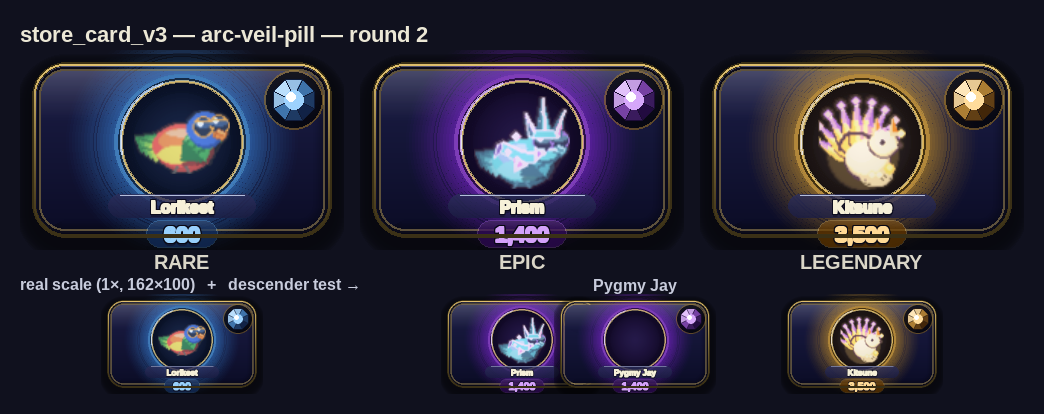
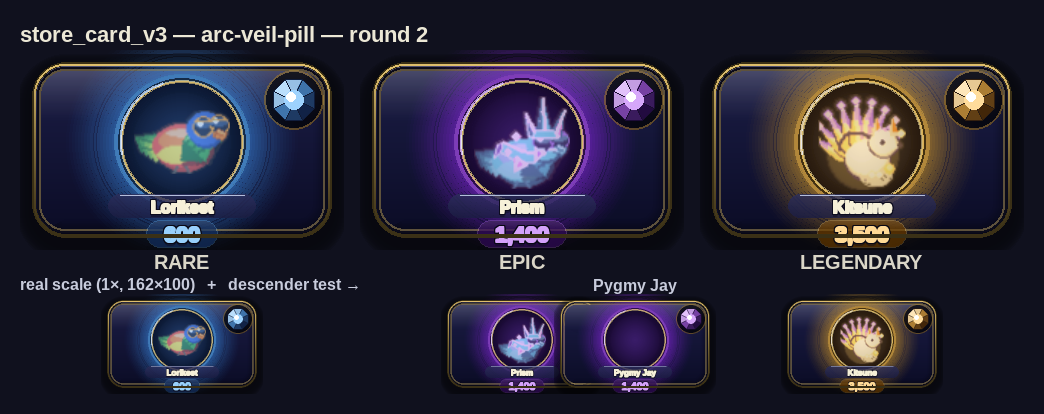
store_card_v3 r2 updates: arc-veil-pill, bridge-nameplate, product-line-bar

diff --git a/tools/_store_card_v3_product_line_bar_r2.py b/tools/_store_card_v3_product_line_bar_r2.py
@@ -1,0 +1,338 @@
+"""product-line-bar — store_card_v3 concept, round 2 headless render.
+
+Round-2 revision of the retail-SKU read. The medallion hero now rides with more
+AIR (R=32, disc centre at rect.y+34 so the disc top clears the inner-tray frame
+and the disc bottom only just overhangs the shelf bar), and the full-width tier
+FOOTER BAR is INSET to the gold inner tray (tray.x / tray.w, seated flush to the
+tray bottom with the tray's own bottom-corner radius) so it lives inside the
+frame like the disc does.
+
+The bar's tier ramp is INVERTED versus r1: deep at the TOP, glow through the
+mid, and gem only as a 1-2px bright lip at the very base. That seats the NAME +
+PRICE glyphs on the darkest, most consistent slice of the bar. Text ink is
+TIER-ADAPTIVE: the actual bar background under the glyphs is sampled and, when
+its luminance clears ~90 (warm bars like LEGENDARY), the glyphs flip to dark ink
+so cream-on-gold never smears; cool/dark bars keep cream. The gutter halo is
+pulled back (glow_r=R+16, peak=65) now that the bar carries the rarity read, and
+the disc-centre tint is strengthened (base 30, exp 1.3) to tame near-white skins.
+
+Copied scaffold from _store_card_v3_product_line_bar_r1 (_disc_tint,
+_gutter_aura, VARIANTS list, review-sheet stitch); only the numbers the
+art-director called out changed.
+
+Headless (SDL dummy) -> a 3-up RARE/EPIC/LEGENDARY review sheet at SS (324x200,
+no downscale) + a real-scale 1x strip (162x100). Not wired into the live store;
+writes docs/store_card_v3/product-line-bar/round_2.png.
+"""
+import os
+
+os.environ["SDL_VIDEODRIVER"] = "dummy"
+os.environ["SDL_AUDIODRIVER"] = "dummy"
+
+import sys
+
+sys.path.insert(0, "/home/user/skybit")
+
+import pygame
+
+pygame.init()
+pygame.display.set_mode((1, 1))
+
+from game.draw import lerp_color
+from game.hud import _font
+from game.store_cards import (
+    vgrad, vgrad_stops, drop_shadow, bevel_rim, top_sheen, contact_shadow,
+    cabochon, cabochon_glass, blit_thumb, facet_gem, plain_text,
+    font, m, SS, CABO_LO, CABO_HI, CARD_T, CARD_B,
+    CARD_RING_DEEP, CARD_RING_BRIGHT, GEM_R,
+)
+
+# LOCKED card constants (from store_cards).
+CARD_W, CARD_H = 162, 100
+CARD_RAD = 17
+_INSET = 6
+
+# Hero medallion radius: dropped to R=32 to give the hero more breathing room in
+# the gutter and above/below, so the disc no longer crowds the tray frame or the
+# shelf bar.
+R = 32
+# Disc centre measured from the body top (rect.y + 34): the disc top now clears
+# the inner-tray frame by a couple logical px and the disc bottom only just kisses
+# the top lip of the shelf bar instead of burying into it.
+CY = 34
+
+# Cream vs dark ink for the shelf label. Cream is the default over cool/dark
+# bars; dark ink lands on warm/bright bars (LEGENDARY) where cream would smear.
+INK_CREAM = (246, 240, 216)
+INK_DARK = (40, 26, 6)
+INK_LUM_THRESHOLD = 90        # background luminance above which cream fails
+
+
+def _luma(c):
+    """Rec601 perceived luminance — the store's existing convention for
+    background-vs-ink decisions."""
+    return 0.299 * c[0] + 0.587 * c[1] + 0.114 * c[2]
+
+
+def _disc_tint(surf, cx, cy, r, color, deep, peak=52, base=30):
+    """A tier colour veil INSIDE the disc, clipped to the glass. It warms the
+    cool CABO_LO->CABO_HI dome away from the indigo body, and — carrying a
+    STRONGER centre alpha (base 30) with a gentler falloff (exp 1.3) — pulls any
+    near-white skin highlight harder toward the tier hue so the hero never reads
+    pure (255,255,255). Rim-biased (deeper toward the edge) reads as a coloured
+    dome, not a flat cast."""
+    pad = 2
+    tint = pygame.Surface((r * 2 + pad * 2, r * 2 + pad * 2), pygame.SRCALPHA)
+    c = r + pad
+    for i in range(r, 0, -1):
+        f = i / r                                   # 1 at rim, 0 at centre
+        col = lerp_color(color, deep, f ** 1.3)
+        a = int(base + (peak - base) * f ** 1.3)    # base at centre, peak at rim
+        pygame.draw.circle(tint, (*col, a), (c, c), i, width=2)
+    tmask = pygame.Surface(tint.get_size(), pygame.SRCALPHA)
+    pygame.draw.circle(tmask, (255, 255, 255, 255), (c, c), r - m(1))
+    tint.blit(tmask, (0, 0), special_flags=pygame.BLEND_RGBA_MIN)
+    surf.blit(tint, (cx - c, cy - c))
+
+
+def _gutter_aura(surf, cx, cy, disc_r, glow_r, color, peak=65, layers=18):
+    """A feathered tier halo that lives ONLY beyond the disc rim (radius >
+    disc_r), so it floods the side gutters with tier colour without touching —
+    or blowing out — the hero inside the glass. Normal alpha-carry blits (NOT
+    additive) so the colour survives compositing and reads as a tint, not a hot
+    white bloom. Brightest at the rim, feathering out into the gutter. Pulled
+    back (tighter radius, softer peak) now that the shelf bar carries the read."""
+    for i in range(1, layers + 1):
+        r = int(disc_r + (glow_r - disc_r) * i / layers)
+        if r <= disc_r:
+            continue
+        a = int(peak * (1 - (i - 1) / layers) ** 1.6)
+        if a <= 0:
+            continue
+        w = max(2, int((glow_r - disc_r) / layers) + m(1.5))
+        g = pygame.Surface((r * 2 + 2, r * 2 + 2), pygame.SRCALPHA)
+        pygame.draw.circle(g, (*color, a), (r + 1, r + 1), r, width=w)
+        surf.blit(g, (cx - r - 1, cy - r - 1))
+
+
+def _top_edge_shadow(surf, bar, depth, alpha):
+    """A soft AO band hugging the bar's TOP edge only, so the bar reads as
+    resting UNDER the disc that overhangs it. contact_shadow hugs bottom+right,
+    which is the wrong edge here — this feathers a dark band downward from the
+    bar's top lip instead."""
+    band = pygame.Surface((bar.w, depth), pygame.SRCALPHA)
+    for y in range(depth):
+        a = int(alpha * (1 - y / depth) ** 1.4)
+        pygame.draw.line(band, (0, 0, 0, a), (0, y), (bar.w - 1, y))
+    surf.blit(band, (bar.x, bar.y))
+
+
+def _fit_font(txt, max_w, hi=10.5, lo=8.0):
+    """Auto-shrink the label font from hi->lo (0.5 steps) until it fits max_w, so
+    long skin names never spill past the bar's left cell."""
+    size = hi
+    while size > lo:
+        f = font(size)
+        if f.size(txt)[0] <= max_w:
+            return f
+        size -= 0.5
+    return font(lo)
+
+
+def render_card(sid, pal, price, name):
+    """Draw ONE product-line-bar card onto a fresh SS panel (324x200) and return
+    it plus a probe dict for pixel sampling. Drawn directly at SS (no
+    smoothscale) so the review sheet inspects the geometry at author
+    resolution."""
+    big = pygame.Surface((CARD_W * SS, CARD_H * SS), pygame.SRCALPHA)
+    rect = pygame.Rect(m(_INSET), m(_INSET),
+                       CARD_W * SS - 2 * m(_INSET), CARD_H * SS - 2 * m(_INSET))
+    rad = m(CARD_RAD)
+    cx, cy = rect.centerx, rect.y + m(CY)
+
+    # 1. depth: soft multi-layer drop shadow (top-left light -> offset down).
+    drop_shadow(big, rect, rad, blur=m(8), alpha=160, dy=m(4))
+    # 2. body gradient (indigo CARD_T -> CARD_B).
+    big.blit(vgrad(rect.w, rect.h, rad, CARD_T, CARD_B, 252, gamma=1.15),
+             rect.topleft)
+    # 3. glossy top sheen.
+    top_sheen(big, rect, rad, m(30), peak=62)
+    # 4. bottom-right contact AO.
+    contact_shadow(big, rect, rad, m(9), alpha=120)
+    # 5. inner tray dark border + faint gold lane framing the disc.
+    tray = rect.inflate(-m(7), -m(7))
+    trad = rad - m(4)
+    pygame.draw.rect(big, (10, 10, 24, 200), tray.inflate(m(2), m(2)),
+                     width=max(1, m(1)), border_radius=trad + m(1))
+    pygame.draw.rect(big, (*CARD_RING_BRIGHT, 90), tray, width=max(1, m(1)),
+                     border_radius=trad)
+
+    # 11. FOOTER BAR — inset to the gold inner tray (tray.x / tray.w), seated
+    #     flush to the tray bottom with the tray's own bottom-corner radius, so
+    #     it lives inside the frame like the disc. Drawn BEFORE the disc so the
+    #     disc's slight overhang + top-edge AO read as the disc resting on it.
+    bar = pygame.Rect(tray.x, 0, tray.w, m(20))
+    bar.bottom = tray.bottom
+    #     INVERTED 3-stop tier ramp: deep at the TOP (the flattest, darkest,
+    #     most consistent ground for the glyphs), glow through the mid, gem only
+    #     as a bright lip at the very base. gamma>1 biases the whole bar toward
+    #     the deep end, flattening value behind the text further.
+    fill = vgrad_stops(bar.w, bar.h, 0,
+                       [(0.0, pal["deep"]), (0.80, pal["glow"]), (1.0, pal["gem"])],
+                       255, gamma=1.5)
+    #     round ONLY the bottom corners (to the tray radius); the top stays flat
+    #     under the overhanging disc.
+    cmask = pygame.Surface((bar.w, bar.h), pygame.SRCALPHA)
+    pygame.draw.rect(cmask, (255, 255, 255, 255), (0, 0, bar.w, bar.h),
+                     border_bottom_left_radius=trad, border_bottom_right_radius=trad)
+    fill.blit(cmask, (0, 0), special_flags=pygame.BLEND_RGBA_MIN)
+    big.blit(fill, bar.topleft)
+
+    # 6. domed glass well -> hero skin (no under-disc additive glow).
+    cabochon(big, cx, cy, m(R), CABO_LO, CABO_HI, ring=pal["gem"], ring_a=60)
+    blit_thumb(big, sid, cx, cy, m(R) * 1.5)
+
+    # 7. tier tint INSIDE the disc — warms the glass, tames near-white skins.
+    _disc_tint(big, cx, cy, m(R), pal["glow"], pal["deep"])
+
+    # 8. glass dome overlay (crescent sheen + gold bezel) on top of the tint.
+    cabochon_glass(big, cx, cy, m(R), tint=pal["gem"])
+
+    # 9. ONE tier-coloured bezel ring at R+2.
+    pygame.draw.circle(big, (*pal["gem"], 100), (cx, cy), m(R) + m(2), width=m(2))
+
+    # 10. gutter halo — pulled back (R+16, softer peak) since the shelf bar now
+    #     carries the rarity read and the halo shouldn't compete with it.
+    _gutter_aura(big, cx, cy, m(R), m(R + 16), pal["glow"], peak=65, layers=18)
+
+    #     top-edge AO so the bar reads as resting below the overhanging disc.
+    _top_edge_shadow(big, bar, depth=m(4), alpha=100)
+    #     1px bevel to define the bar edges against body + gutter halo.
+    bevel_rim(big, bar, 0, CARD_RING_DEEP, CARD_RING_BRIGHT, w=max(1, m(1)))
+
+    # 12/13. TIER-ADAPTIVE INK — sample the ACTUAL bar background under the
+    #     glyphs (bar centre) and flip to dark ink when it clears the luminance
+    #     threshold, so warm bars read dark type and cool bars keep cream. Gating
+    #     on the rendered pixel (not a fixed per-tier choice) keeps it
+    #     future-proof for any new palette.
+    bg = big.get_at((bar.centerx, bar.centery))[:3]
+    ink = INK_DARK if _luma(bg) > INK_LUM_THRESHOLD else INK_CREAM
+    pad = m(8)
+    price_txt = f"$ {price:,}"
+    pfont = font(10.5)
+    price_w = pfont.size(price_txt)[0]
+    name_max = bar.w - price_w - pad * 3
+    nfont = _fit_font(name, name_max)
+    nsurf = nfont.render(name, True, ink)
+    # NAME (left cell) — left-aligned, m(8) pad, vertically centred.
+    plain_text(big, name, nfont,
+               (bar.x + pad + nsurf.get_width() // 2, bar.centery),
+               ink, shadow_a=170, keyline=(20, 14, 4), kw=m(0.8))
+    # PRICE (right cell) — right-aligned, m(8) pad.
+    prect = plain_text(big, price_txt, pfont,
+                       (bar.right - pad - price_w // 2, bar.centery),
+                       ink, shadow_a=170, keyline=(20, 14, 4), kw=m(0.8))
+
+    # 14. crest gem — faceted tier badge, top-right corner.
+    facet_gem(big, rect.right - m(19), rect.y + m(19), m(GEM_R + 3),
+              pal["gem"], pal["deep"])
+
+    # 15. bevel rim + dark keyline LAST so the card frame stays crisp.
+    pygame.draw.rect(big, (4, 5, 16), rect, width=max(1, m(2)), border_radius=rad)
+    bevel_rim(big, rect, rad, CARD_RING_DEEP, (*CARD_RING_BRIGHT, 235),
+              w=max(1, m(2.0)))
+    probe = {
+        "cx": cx, "cy": cy, "bar": bar, "prect": prect,
+        "bg": bg, "ink": ink, "lum": _luma(bg),
+    }
+    return big, probe
+
+
+# ── review sheet ──────────────────────────────────────────────────────────────
+VARIANTS = [
+    ("RARE", "skin_lorikeet",
+     {"gem": (108, 188, 252), "glow": (60, 140, 230), "deep": (18, 44, 90)},
+     600, "Lorikeet"),
+    ("EPIC", "skin_prism",
+     {"gem": (194, 122, 248), "glow": (140, 40, 230), "deep": (44, 10, 80)},
+     1400, "Prism"),
+    ("LEGENDARY", "skin_kitsune",
+     {"gem": (255, 202, 104), "glow": (220, 160, 40), "deep": (90, 50, 0)},
+     3500, "Kitsune"),
+]
+
+PANEL_W, PANEL_H = CARD_W * SS, CARD_H * SS   # 324 x 200 (SS panels, no downscale)
+MARGIN = 20
+GUTTER = 16
+HEADER_H = 30
+FOOTER_H = 24
+STRIP_LABEL_H = 20
+STRIP_H = CARD_H                              # real-scale 1x cards (162x100)
+
+sheet_w = MARGIN * 2 + PANEL_W * 3 + GUTTER * 2
+sheet_h = (MARGIN + HEADER_H + PANEL_H + FOOTER_H + STRIP_LABEL_H + STRIP_H
+           + MARGIN)
+sheet = pygame.Surface((sheet_w, sheet_h))
+sheet.fill((16, 17, 30))
+
+hfont = _font(22, True)
+ffont = _font(20, True)
+sfont = _font(16, True)
+htxt = hfont.render("store_card_v3 — product-line-bar — round 2", True,
+                    (236, 232, 214))
+sheet.blit(htxt, (MARGIN, MARGIN + (HEADER_H - htxt.get_height()) // 2))
+
+panel_y = MARGIN + HEADER_H
+panels = []
+probes = []
+for i, (tier, sid, pal, price, name) in enumerate(VARIANTS):
+    px = MARGIN + i * (PANEL_W + GUTTER)
+    panel, probe = render_card(sid, pal, price, name)
+    panels.append(panel)
+    probes.append(probe)
+    sheet.blit(panel, (px, panel_y))
+    ftxt = ffont.render(tier, True, (218, 214, 200))
+    sheet.blit(ftxt, (px + (PANEL_W - ftxt.get_width()) // 2,
+                      panel_y + PANEL_H + (FOOTER_H - ftxt.get_height()) // 2))
+
+# 1x real-scale strip: smoothscale each SS panel down to the live 162x100 card
+# so the sheet also shows how the card reads at true size.
+strip_label_y = panel_y + PANEL_H + FOOTER_H
+ltxt = sfont.render("real scale (1×, 162×100):", True, (200, 204, 220))
+sheet.blit(ltxt, (MARGIN, strip_label_y + (STRIP_LABEL_H - ltxt.get_height()) // 2))
+strip_y = strip_label_y + STRIP_LABEL_H
+for i, panel in enumerate(panels):
+    px = MARGIN + i * (PANEL_W + GUTTER)
+    small = pygame.transform.smoothscale(panel, (CARD_W, CARD_H))
+    sheet.blit(small, (px + (PANEL_W - CARD_W) // 2, strip_y))
+
+out = "/home/user/skybit/docs/store_card_v3/product-line-bar/round_2.png"
+os.makedirs(os.path.dirname(out), exist_ok=True)
+pygame.image.save(sheet, out)
+print("saved", out, sheet.get_size())
+
+
+def _find_ink_pixel(panel, prect, ink):
+    """Scan the price glyph rect for the pixel nearest the chosen ink — a real
+    rendered text pixel to verify the adaptive-ink decision landed."""
+    best, bestd = None, 1e9
+    for y in range(prect.top, prect.bottom):
+        for x in range(prect.left, prect.right):
+            c = panel.get_at((x, y))[:3]
+            d = sum((a - b) ** 2 for a, b in zip(c, ink))
+            if d < bestd:
+                bestd, best = d, c
+    return best
+
+
+# Per-tier pixel samples the art-director asked for.
+for (tier, sid, pal, price, name), panel, pr in zip(VARIANTS, panels, probes):
+    cx, cy, bar = pr["cx"], pr["cy"], pr["bar"]
+    gutter_px = panel.get_at((cx + m(R) + m(15), cy))[:3]     # rim + 15px logical
+    disc_px = panel.get_at((cx, cy))[:3]
+    bar_hue = panel.get_at((bar.centerx, bar.centery))[:3]
+    text_px = _find_ink_pixel(panel, pr["prect"], pr["ink"])
+    ink_name = "dark" if pr["ink"] == INK_DARK else "cream"
+    print(f"{tier:9s} gutter+15 {gutter_px}  disc-centre {disc_px}  "
+          f"bar-hue {bar_hue}  bg-lum {pr['lum']:5.1f}->{ink_name:5s}  "
+          f"text-px {text_px}")

diff --git a/tools/_store_card_v3_arc_veil_pill_r2.py b/tools/_store_card_v3_arc_veil_pill_r2.py
@@ -57,14 +57,19 @@ R = 32
 CY = 40
 
 
-def _disc_tint(surf, cx, cy, r, color, deep, peak=52, base=34):
+def _disc_tint(surf, cx, cy, r, color, deep, peak=92, base=78):
     """A tier colour veil INSIDE the disc, clipped to the glass. It warms the
     cool CABO_LO→CABO_HI dome away from the indigo body, and — carrying a
-    meaningful centre alpha (base raised from r1's 16 so the LEGENDARY hero stops
-    blowing to near-white) — pulls any bright skin highlight toward the tier hue.
-    Rim-biased (deeper toward the edge) reads as a coloured dome, not a flat cast;
-    the gentler exponent (1.3, down from 1.6) lets that hue carry further inward
-    instead of collapsing to nothing at the centre."""
+    meaningful centre alpha — pulls the LEGENDARY hero's near-white specular
+    toward the tier hue so it stops blowing out. The gentler exponent (1.3, down
+    from r1's 1.6) lets the hue carry further inward instead of collapsing to
+    nothing at the centre; the veil stays rim-biased because peak > base.
+
+    base sits well above the ~34 first estimate because cabochon_glass paints its
+    crescent sheen over the SAME centre AFTER this tint, re-lighting it — so the
+    centre pixel (whose alpha equals base) needs ~78 before LEGENDARY's specular
+    drops under the 245/channel ceiling, while RARE/EPIC (mid-tone, not near
+    white) only shed a few points and stay legible."""
     pad = 2
     tint = pygame.Surface((r * 2 + pad * 2, r * 2 + pad * 2), pygame.SRCALPHA)
     c = r + pad
@@ -332,12 +337,14 @@ print("saved", out, sheet.get_size())
 # plate sampled OFF the engraved text.
 body_y = m(_INSET)
 for (tier, sid, pal, price, name), panel, (cx, cy) in zip(VARIANTS, panels, centers):
+    price_txt = f"{price:,}"
+    pill_w = font(11).size(price_txt)[0] + m(18)
     gx = cx + m(R) + m(15)
     gutter_px = panel.get_at((gx, cy))[:3]
     center_px = panel.get_at((cx, cy))[:3]
-    band_px = panel.get_at((cx + m(28), cy + m(R)))[:3]   # off-text x
-    pill_px = panel.get_at((cx, body_y + m(86)))[:3]
-    print(f"{tier:9s} gutter+15 {gutter_px}  centre {center_px}  "
+    band_px = panel.get_at((cx + m(28), cy + m(R)))[:3]         # off-text x
+    pill_px = panel.get_at((cx - pill_w // 2 + m(5), body_y + m(86)))[:3]  # off-text x
+    print(f"{tier:9s} gutter+15 {gutter_px}  centre {center_px}  maxch {max(center_px)}  "
           f"pill {pill_px}  band {band_px}")
 
 # descender clearance proof for "Pygmy Jay": measure the chosen name font box.

diff --git a/tools/_store_card_v3_bridge_nameplate_r2.py b/tools/_store_card_v3_bridge_nameplate_r2.py
@@ -317,7 +317,7 @@ for i, (tier, sid, pal, price, name) in enumerate(VARIANTS):
                       panel_y + PANEL_H + (FOOTER_H - ftxt.get_height()) // 2))
 
     rect, prect, chip = geo["rect"], geo["prect"], geo["chip"]
-    gutter_x = rect.left + 15                        # a point in the left gutter
+    gutter_x = cx - m(R) - 15                         # 15px into the left gutter aura
     plaque_off_x = cx + m(30)                        # plaque body, clear of text
     print(f"  {tier:<10} "
           f"gutter+15={_px(panel, gutter_x, cy)}  "
